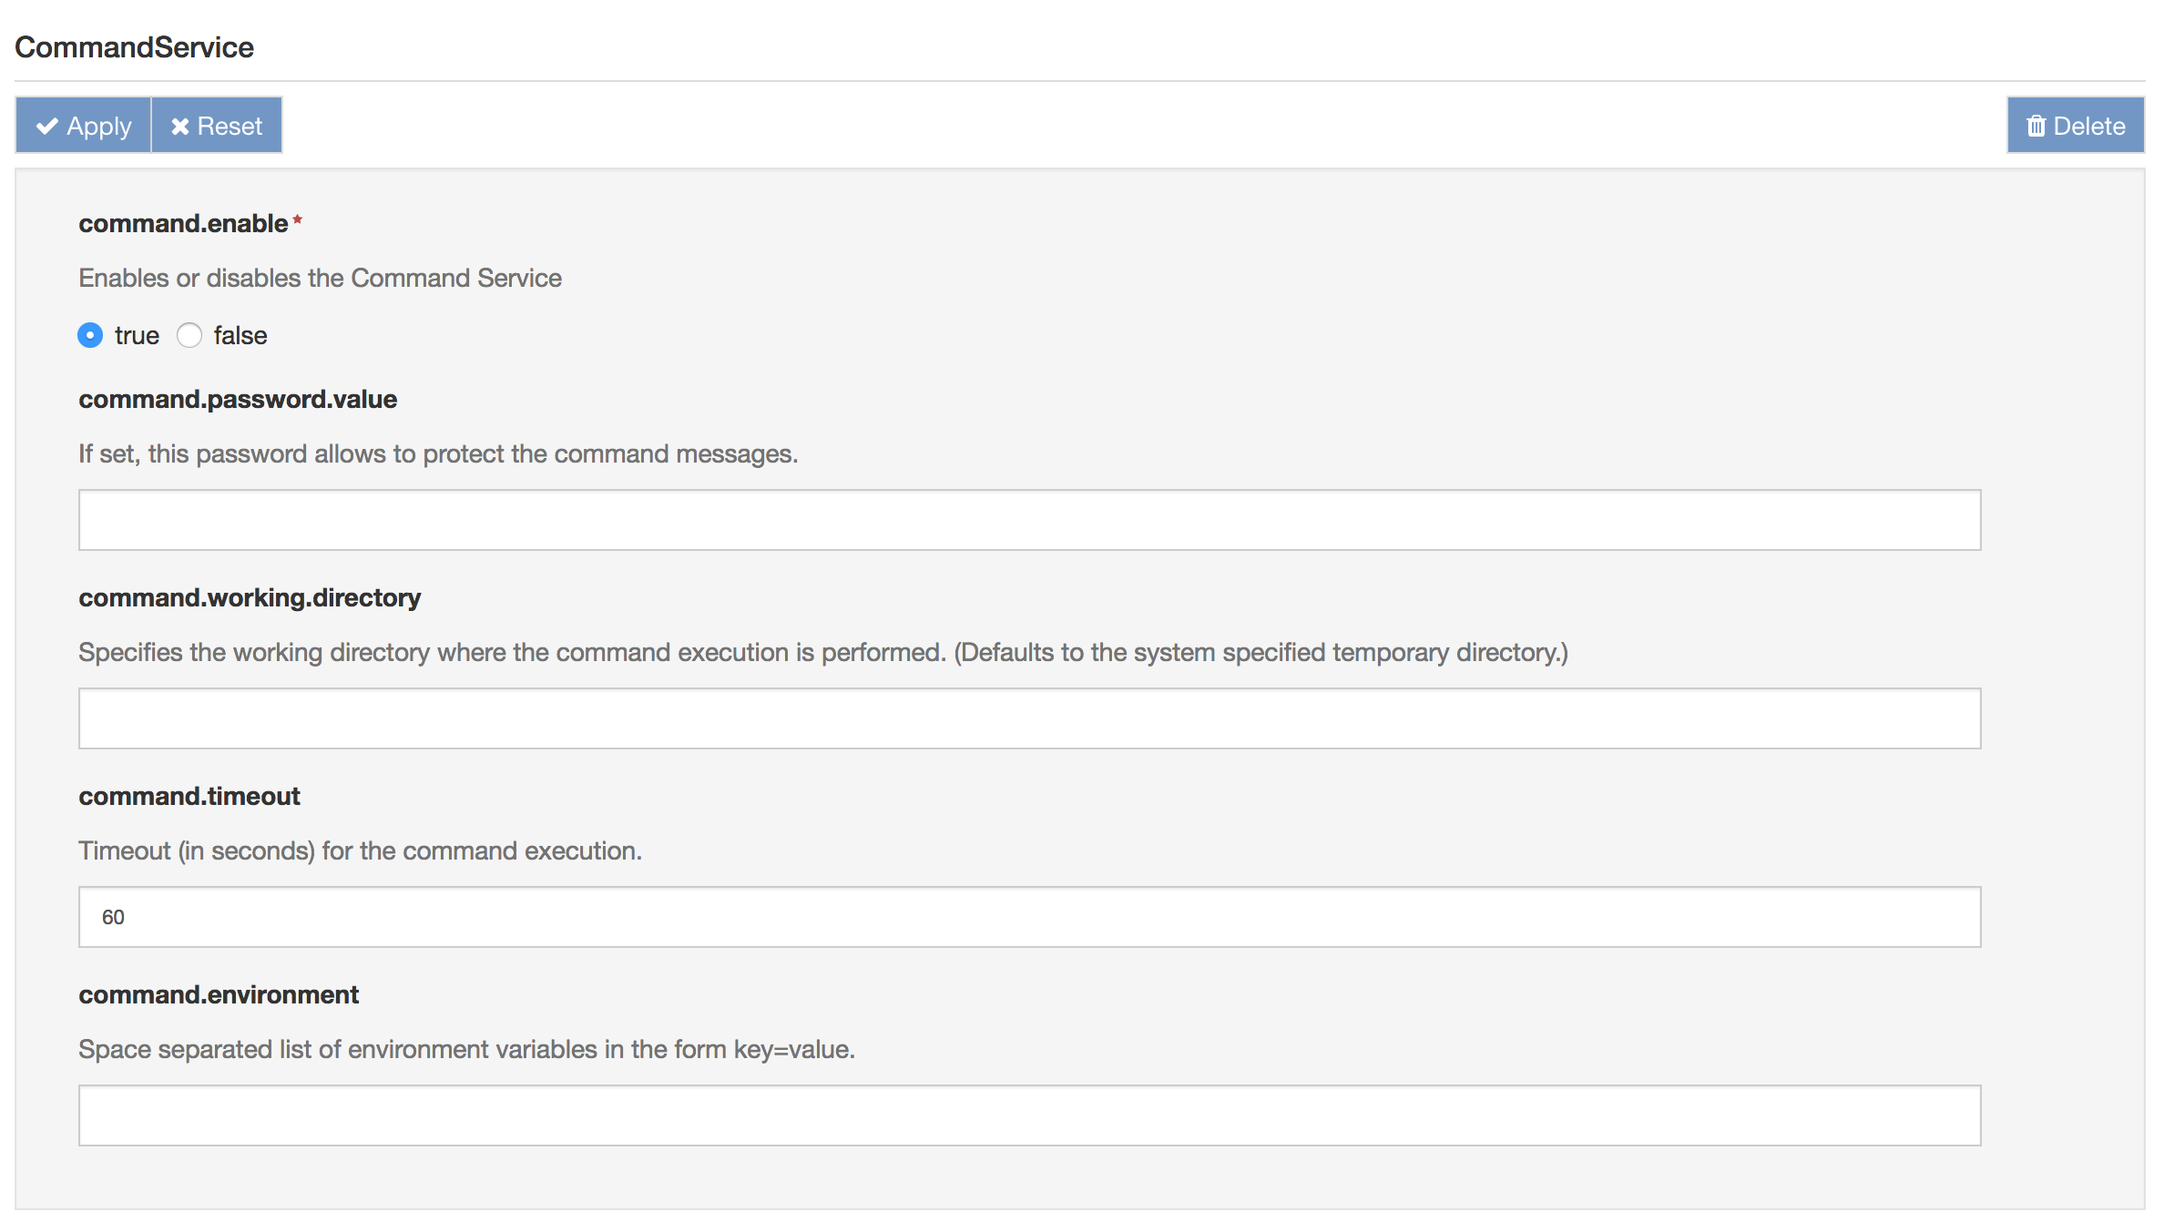
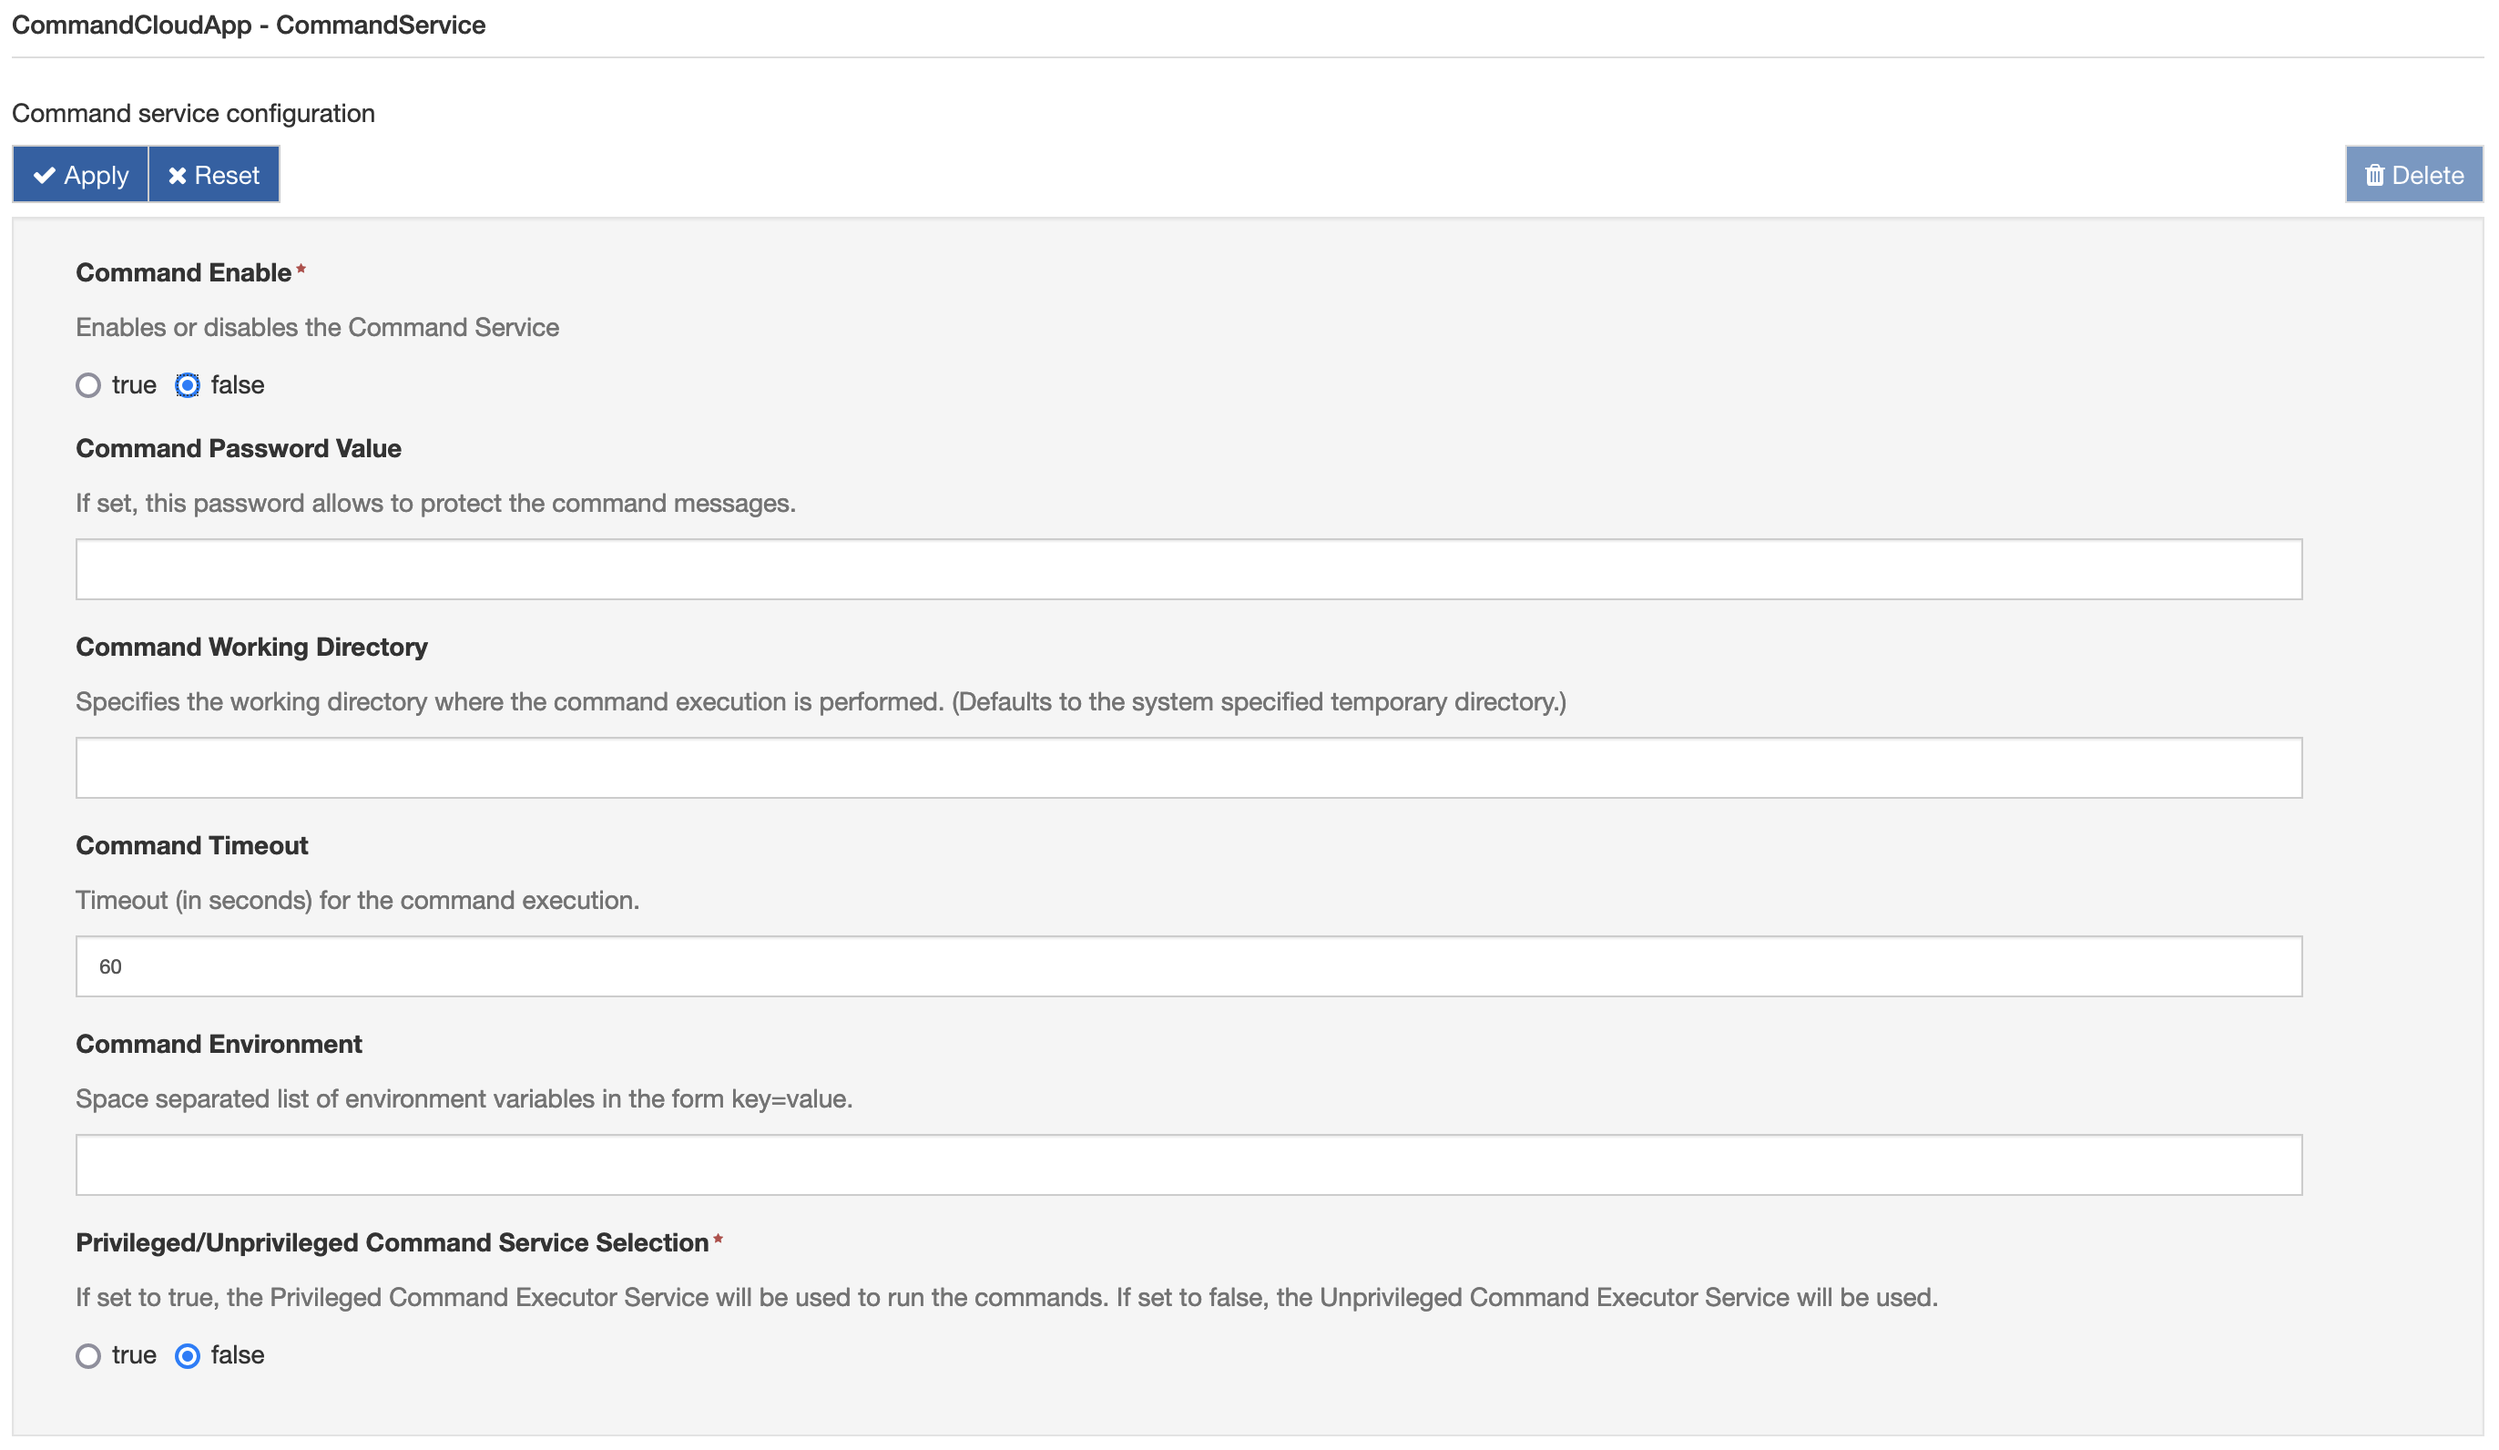
Updated command service page

Changed region(s): [[0.0, 0.0, 0.7163, 0.7638], [0.0311, 0.7943, 0.7786, 0.9471], [0.9032, 0.0611, 0.9966, 0.1528]]

diff --git a/_posts/builtin/2017-10-17-command-service.md b/_posts/builtin/2017-10-17-command-service.md
@@ -4,24 +4,33 @@ title:  "Command Service"
 categories: [builtin]
 ---
 
-The CommandService provides methods for running system commands from the web console of a cloud platform. Currently it is supported in Everyware Cloud. In this case, the service also provides the ability for a script to execute using the **File** option of the **Command** tab in the Everyware Cloud Console. This script must be compressed into a zip file with the eventual, associated resource files.
+The CommandService provides methods for running system commands from the Kura web console or from a cloud platform. Currently it is supported in Everyware Cloud. In the Kura web console, the service is available clicking on the **Command** tab under the **Device** section, while for the cloud platform please refer to the official documentation.
+
+To run a command simply fill the **Execute** field with the command and click the **Execute** button.
+The service also provides the ability for a script to execute using the **File** option of the **Command** tab in the Kura web console or the Everyware Cloud Console. This script must be compressed into a zip file with the eventual, associated resource files.
 
 Once the file is selected and **Execute** is clicked, the zip file is sent embedded in an MQTT message on the device. The  Command Service in the device stores the file in /tmp, unzips it, and tries to execute a shell script if one is present in the file. Note that in this case, the Execute parameter cannot be empty; a simple command, such as "ls -l /tmp", may be entered.
 
-To use this service, select the **CommandService** option located in the **Services** area as shown in the screen capture below.
+![device_command_service]({{ site.baseurl }}/assets/images/builtin/device_command_service.png)
+
+The configuration of the service is in the **CommandService** tab located in the **Services** area as shown in the screen capture below.
 
 ![command_service]({{ site.baseurl }}/assets/images/builtin/command_service.png)
 
 The CommandService provides the following configuration parameters:
 
-- **command.enable** - sets whether this service is enabled or disabled in the cloud platform. (Required field.)
+- **Command Enable** - sets whether this service is enabled or disabled in the cloud platform. (Required field.)
 
-- **command.password.value** - sets a password to protect this service.
+- **Command Password Value** - sets a password to protect this service.
 
-- **command.working.directory** - specifies the working directory where the command execution is performed.
+- **Command Working Directory** - specifies the working directory where the command execution is performed.
 
-- **command.timeout** - sets the timeout (in seconds) for the command execution.
+- **Command Timeout** - sets the timeout (in seconds) for the command execution.
 
-- **command.environment** - supplies a space-separated list of environment variables in the format key=value.
+- **Command Environment** - supplies a space-separated list of environment variables in the format key=value.
 
-When a command execution is requested in the cloud platform, it sends an MQTT control message to the device requesting that the command be executed. On the device, the Command Service opens a temporary shell as root in the _command.working.directory,_ sets the _command.environment_ variables (if any), and waits  _command.timeout_ seconds to get command response.
+- **Privileged/Unprivileged Command Service Selection** - sets the modality of the command service. When set to privileged, the commands are run using the (privileged) user that started Kura, tipically *kurad* or *root*. When set to unprivileged, a standard user will run the commands, tipically *kura*.
+
+{% include alerts.html message='Only the RaspberryPi profiles support the unprivileged command service.' %}
+  
+When a command execution is requested in the cloud platform, it sends an MQTT control message to the device requesting that the command be executed. On the device, the Command Service opens a temporary shell in the _command.working.directory,_ sets the _command.environment_ variables (if any), and waits  _command.timeout_ seconds to get command response.
